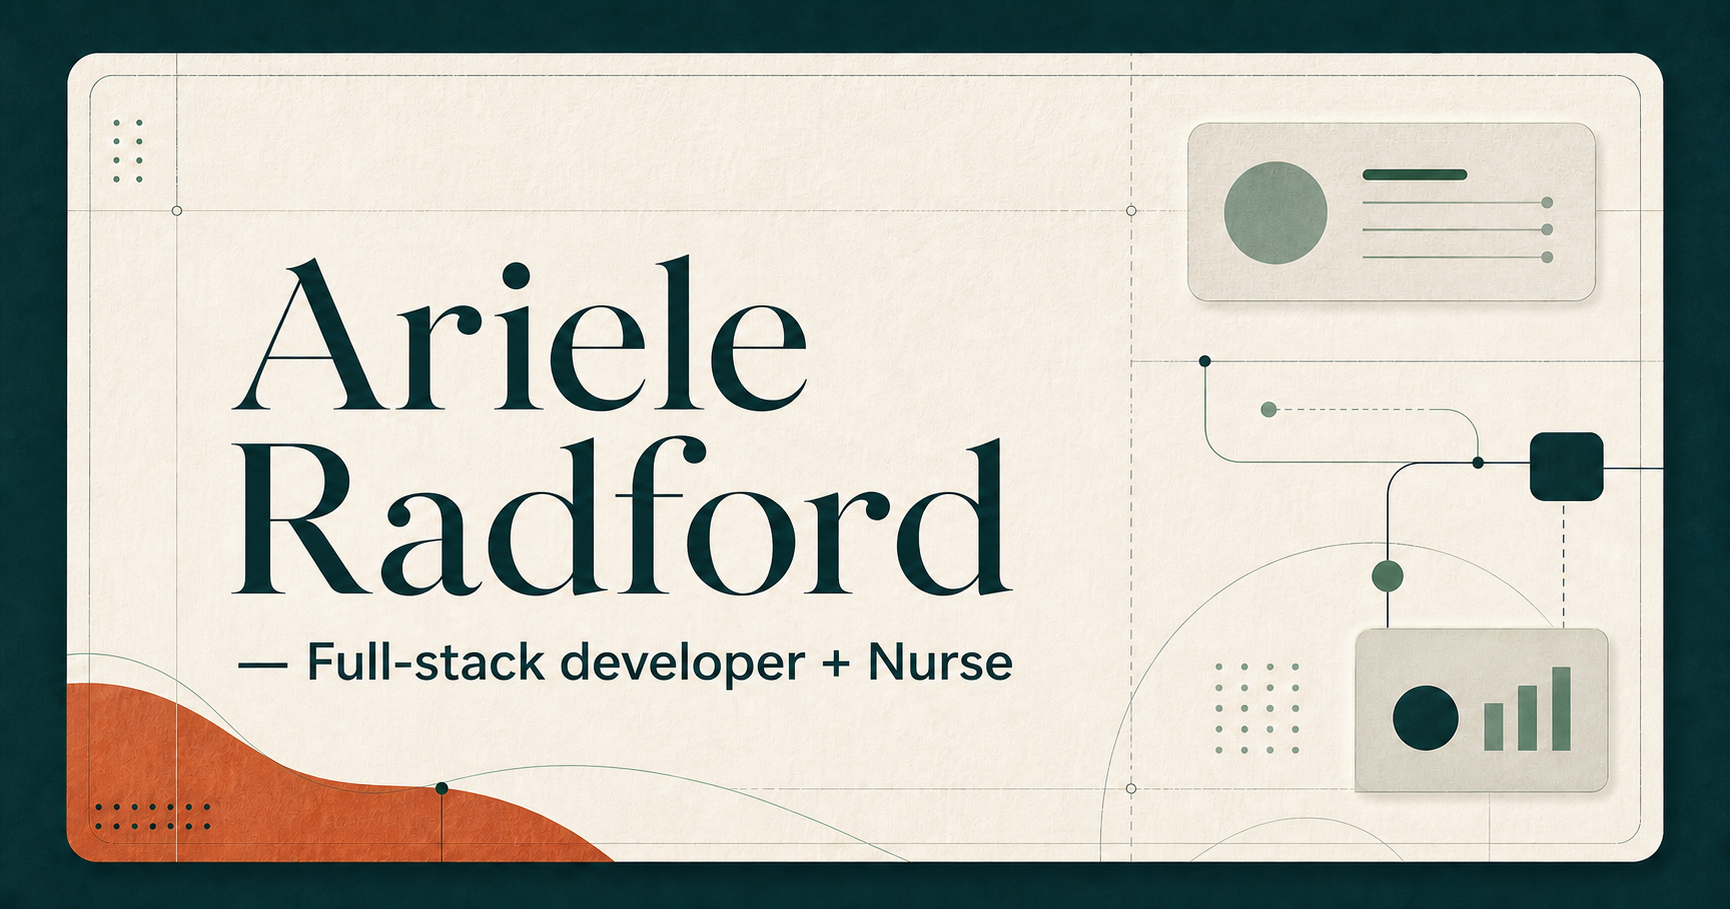
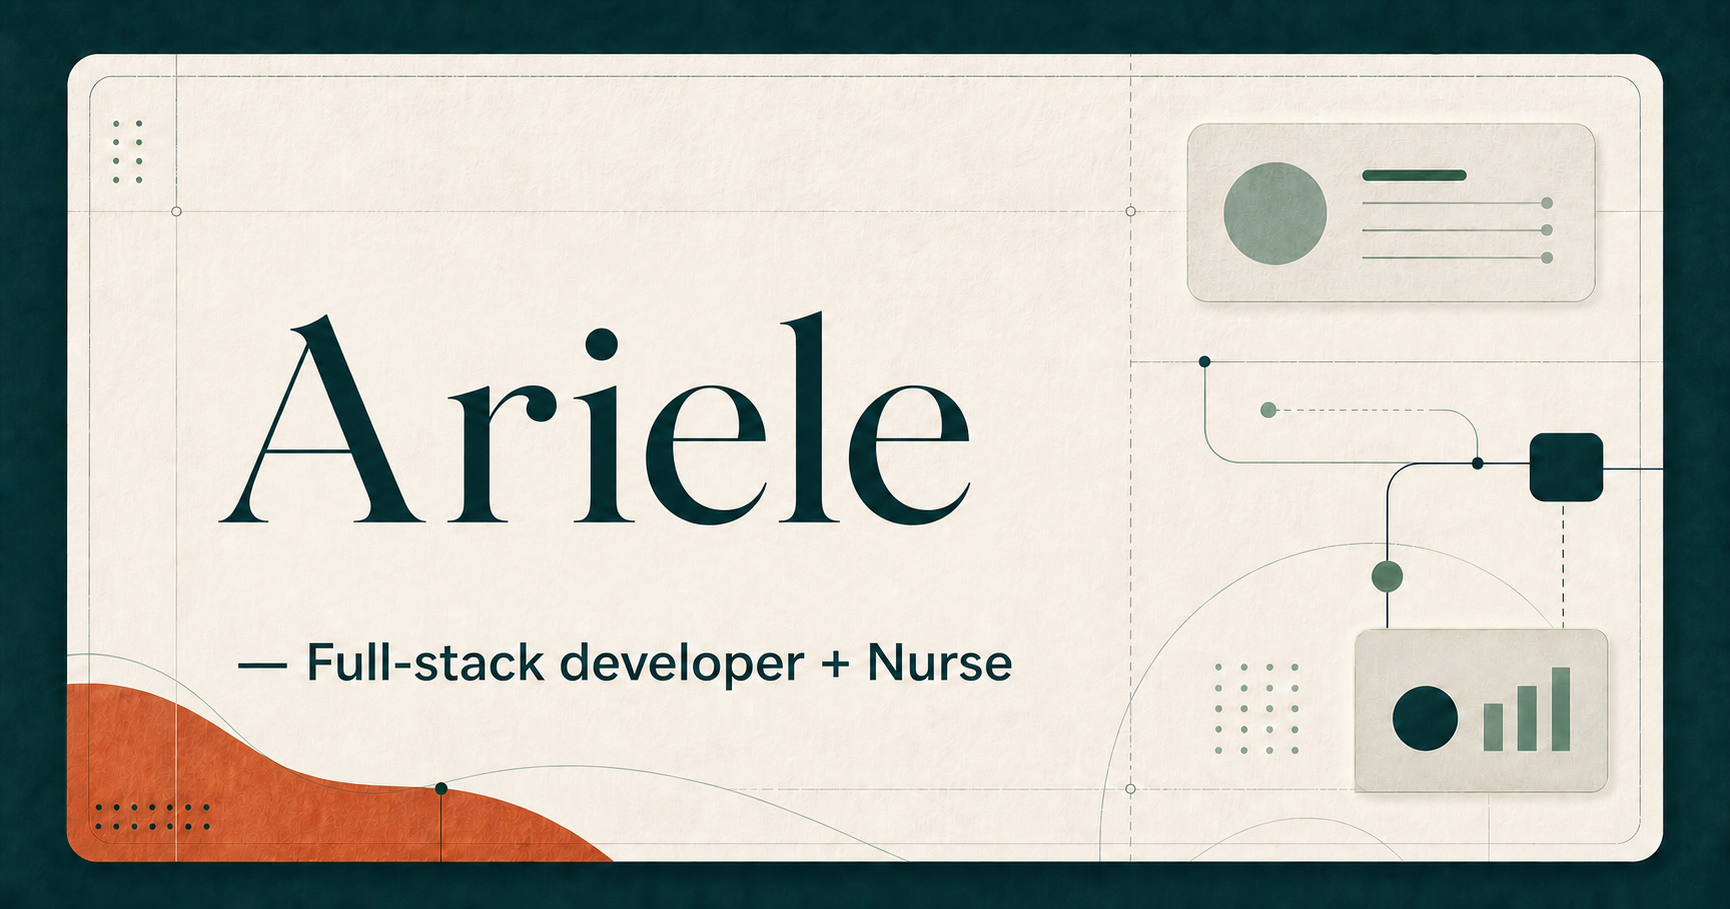
Use Ariele as public name

diff --git a/app/page.tsx b/app/page.tsx
@@ -119,9 +119,9 @@ export default function Home() {
 
       <header className="site-header">
         <nav className="nav-shell shell" aria-label="Primary">
-          <a className="brand" href="#top" aria-label="Ariele Radford, back to top">
-            <span className="brand-mark" aria-hidden="true">AR</span>
-            <span>Ariele Radford</span>
+          <a className="brand" href="#top" aria-label="Ariele, back to top">
+            <span className="brand-mark" aria-hidden="true">A</span>
+            <span>Ariele</span>
           </a>
           <div className="nav-links">
             <a href="#work">Work</a>
@@ -136,7 +136,7 @@ export default function Home() {
         <section className="hero shell" id="top" aria-labelledby="hero-title">
           <div className="hero-grid" aria-hidden="true" />
           <div className="hero-copy">
-            <p className="eyebrow hero-eyebrow">Ariele Radford · Portfolio</p>
+            <p className="eyebrow hero-eyebrow">Ariele · Portfolio</p>
             <h1 id="hero-title">
               Twelve-hour shifts{" "}
               <em>taught me how to stay calm</em>{" "}
@@ -316,7 +316,7 @@ export default function Home() {
 
       <footer className="site-footer">
         <div className="shell">
-          <span>Ariele Radford</span>
+          <span>Ariele</span>
           <span>Full-stack developer + Nurse</span>
         </div>
       </footer>

diff --git a/app/layout.tsx b/app/layout.tsx
@@ -17,11 +17,11 @@ const sans = Manrope({
 
 const siteUrl =
   process.env.NEXT_PUBLIC_SITE_URL ?? "https://sprout541.github.io";
-const title = "Ariele Radford — Full-stack developer + Nurse";
+const title = "Ariele — Full-stack developer + Nurse";
 const description =
-  "Ariele Radford is a full-stack developer, Nurse, and video game fan. Her work includes Haven, Rust Director, and TC Base Repair.";
+  "Ariele is a full-stack developer, Nurse, and video game fan. Her work includes Haven, Rust Director, and TC Base Repair.";
 const socialDescription =
-  "Web platforms, subscription flows, and Rust server tools built by Ariele Radford.";
+  "Web platforms, subscription flows, and Rust server tools built by Ariele.";
 
 export const metadata: Metadata = {
   metadataBase: new URL(siteUrl),

diff --git a/README.md b/README.md
@@ -1,6 +1,6 @@
-# Ariele Radford — Portfolio
+# Ariele — Portfolio
 
-The source for [Ariele Radford’s portfolio](https://sprout541.github.io), a
+The source for [Ariele’s portfolio](https://sprout541.github.io), a
 single-page portfolio presenting her work as a full-stack developer and Nurse.
 
 ## Local development
